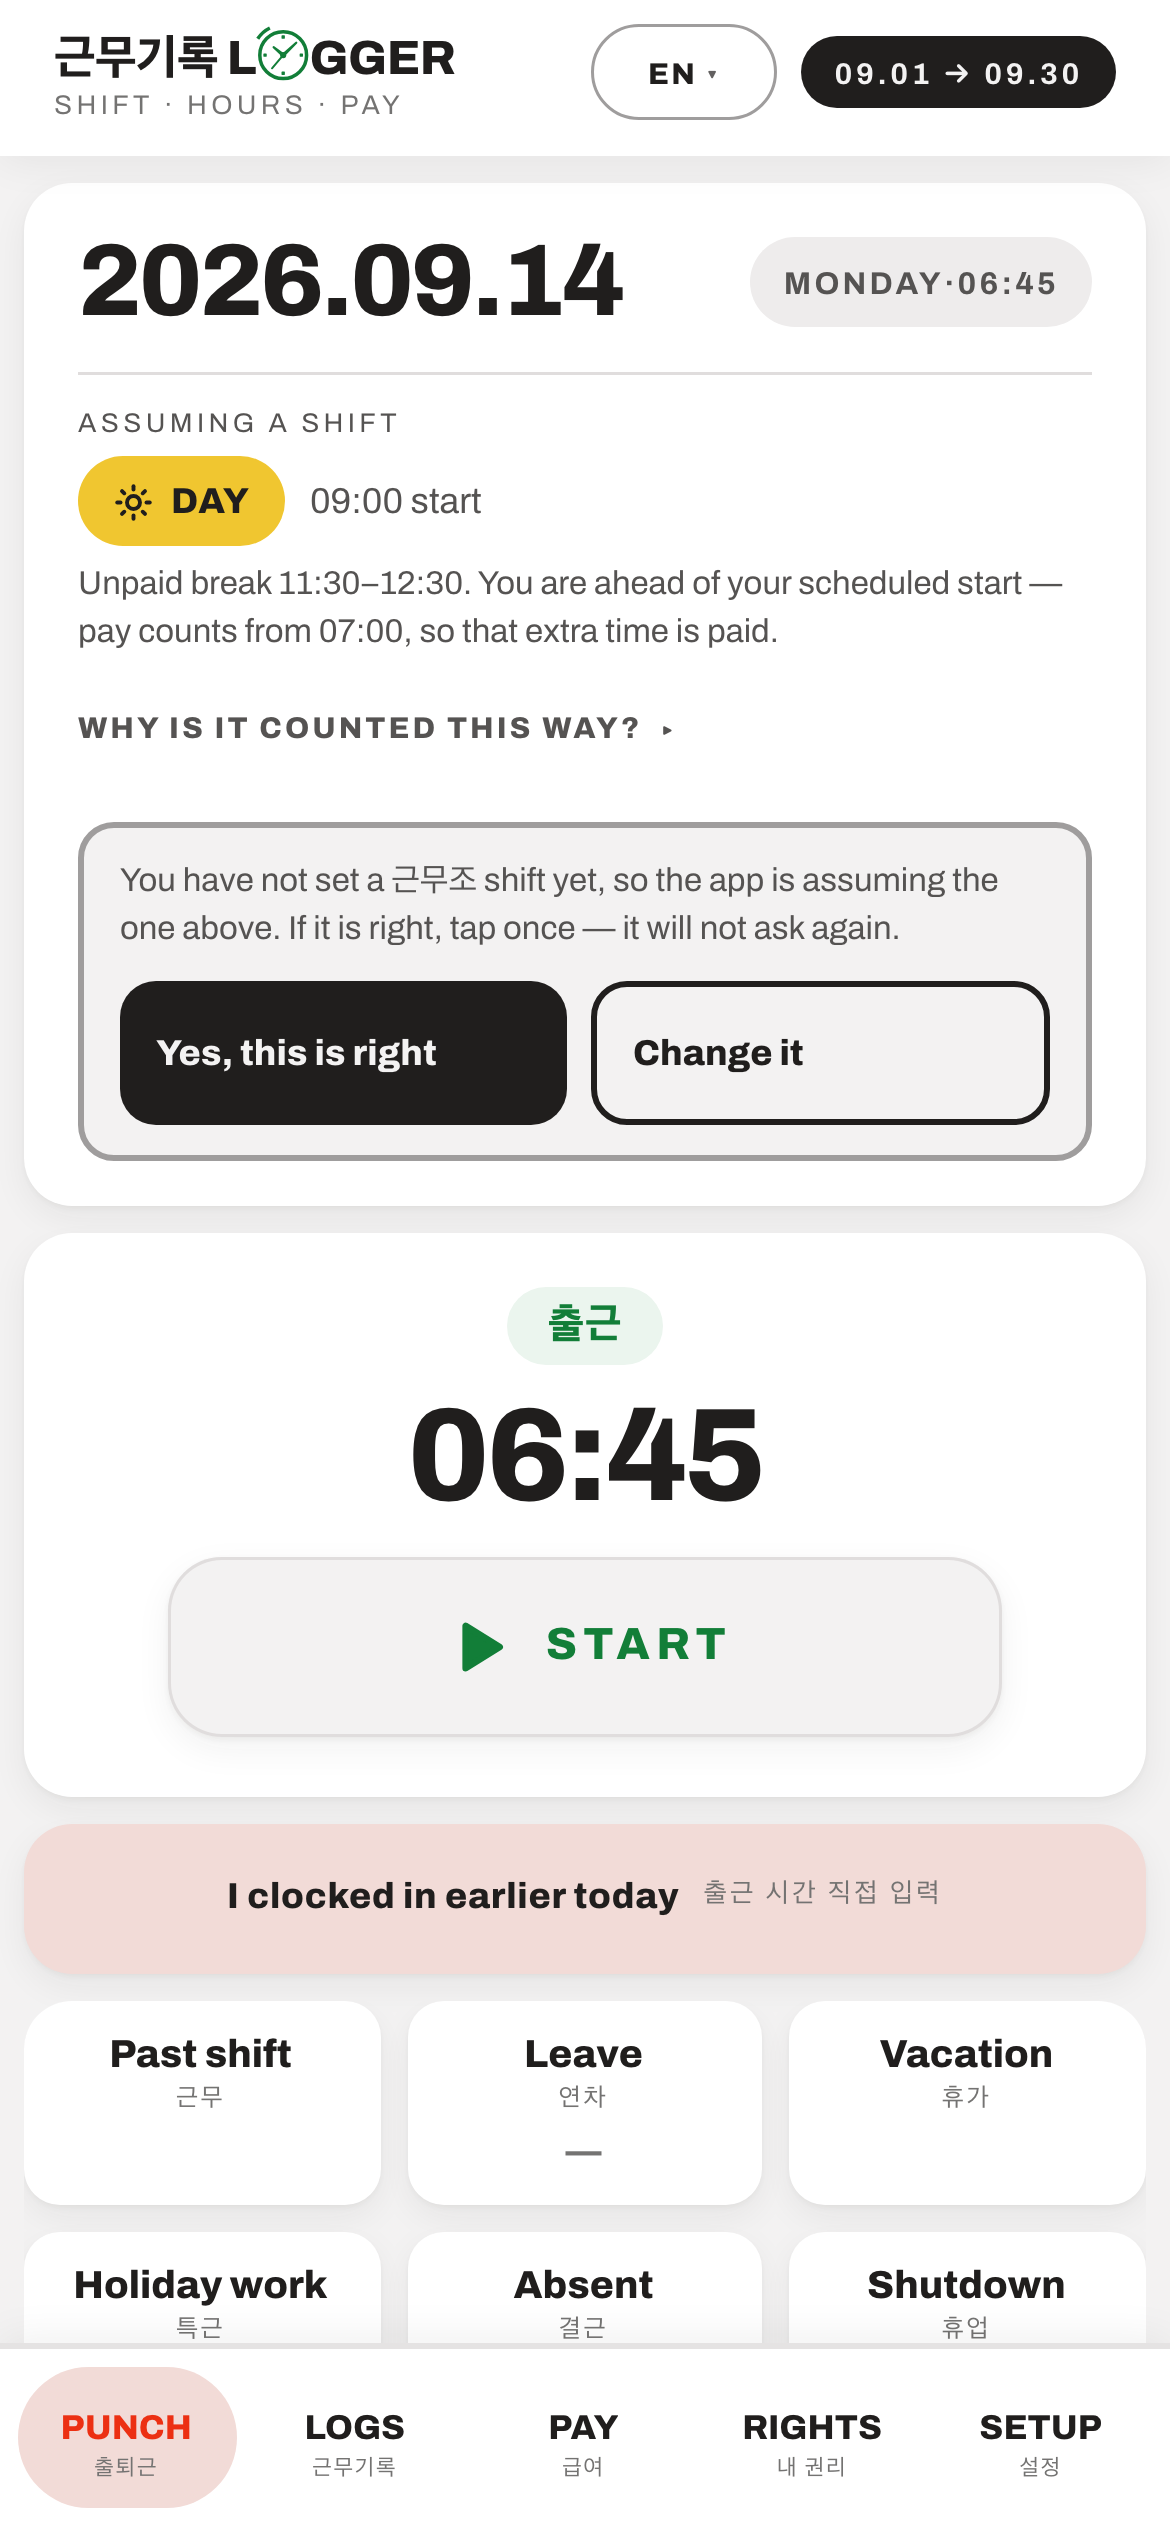
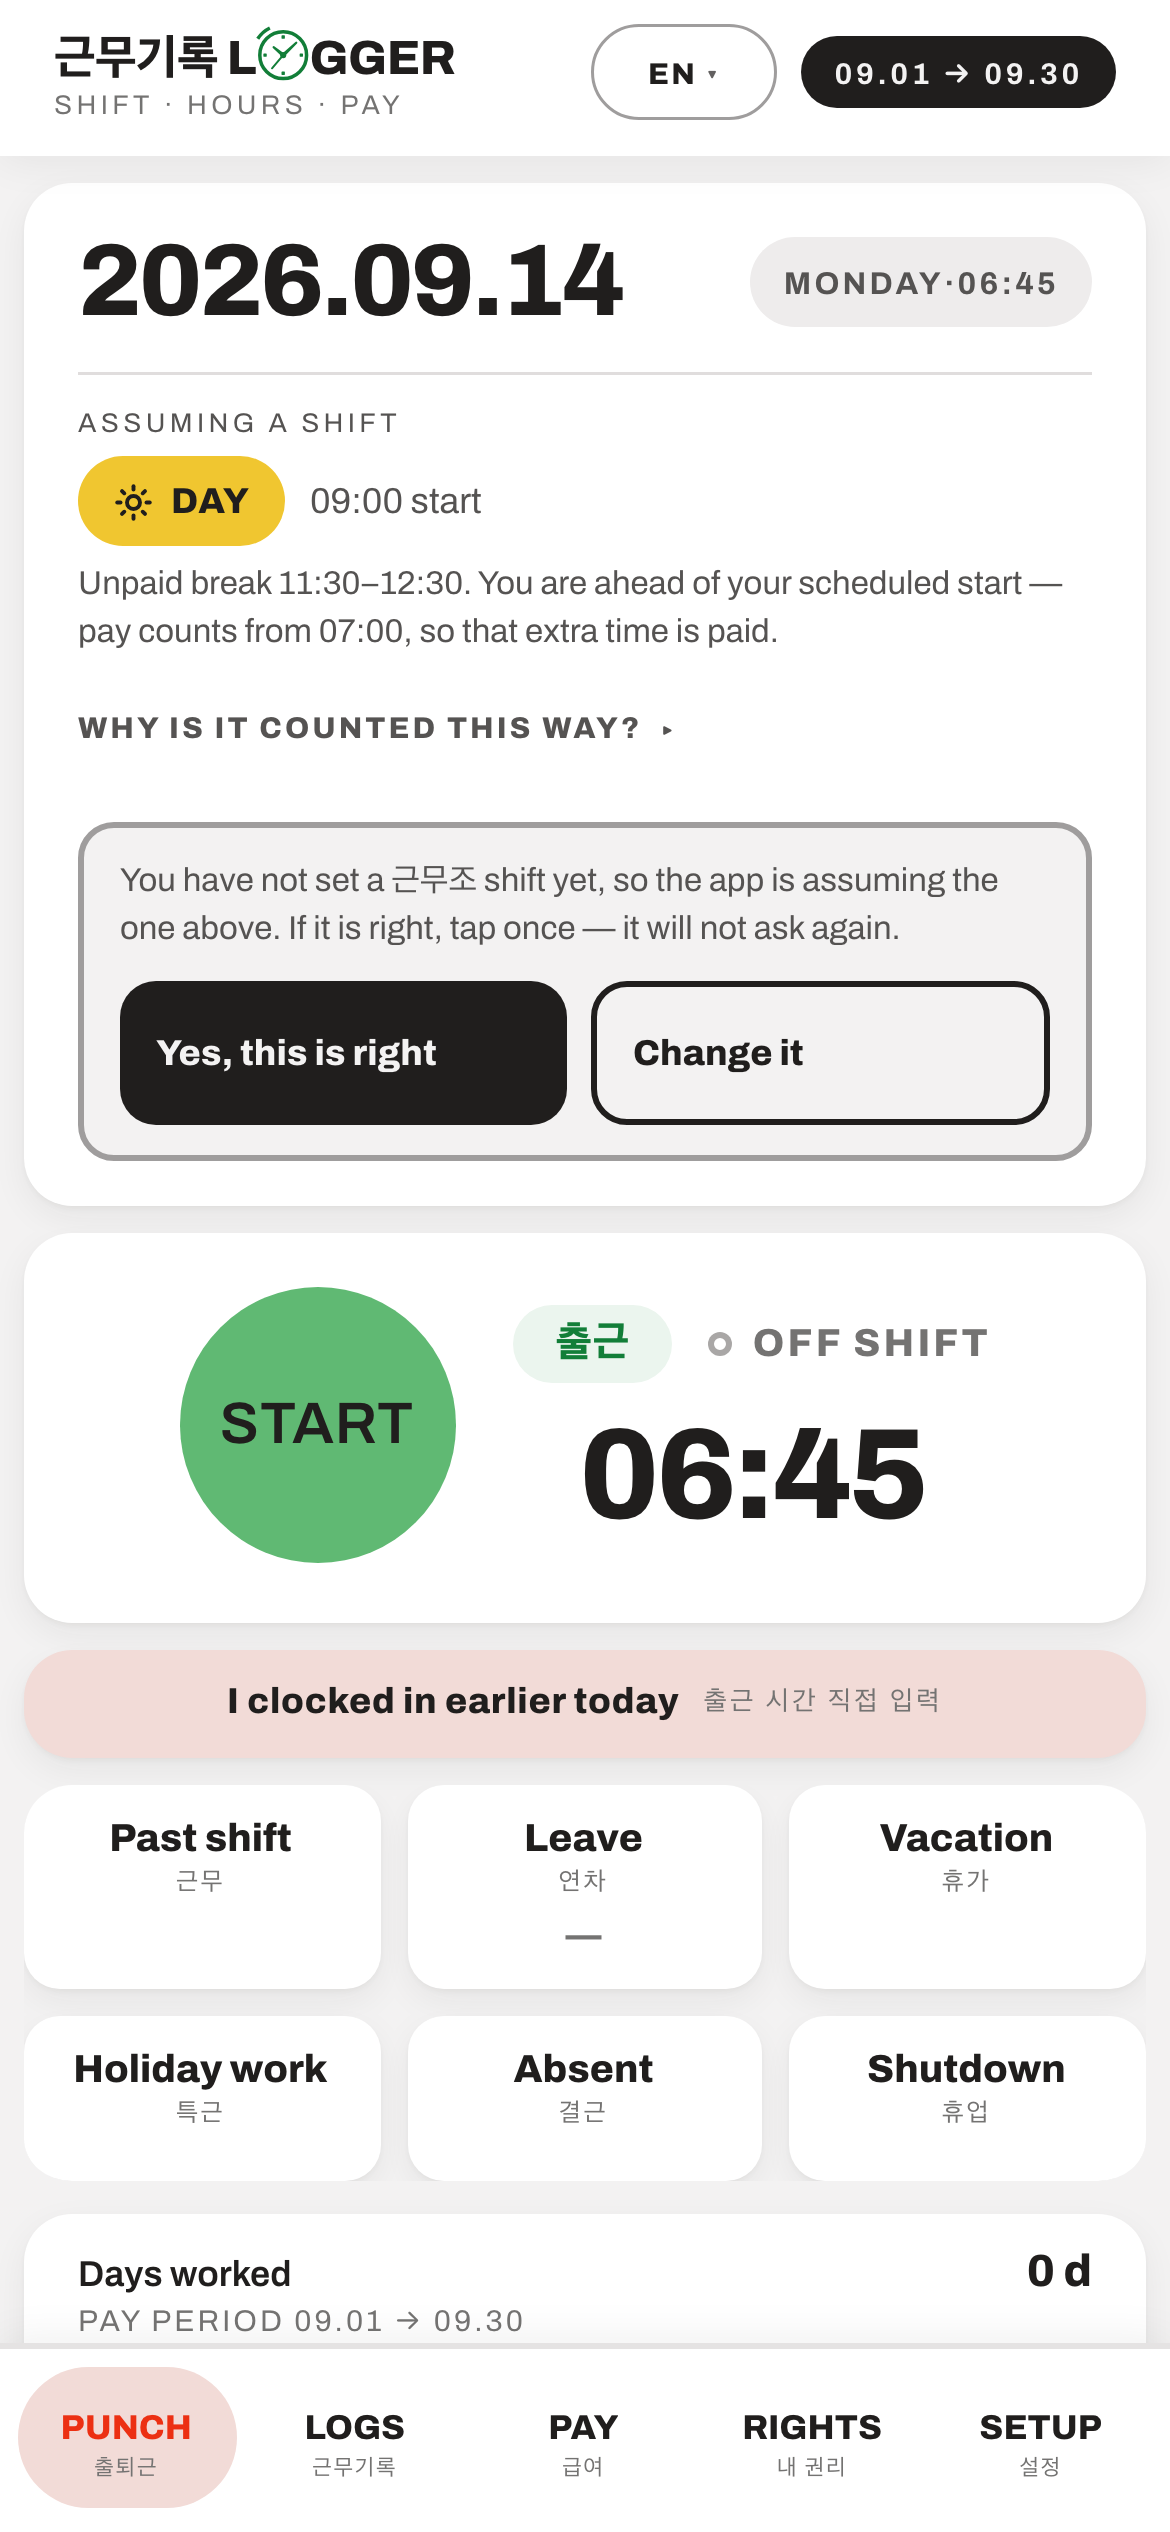
fix: retake LOGGER pictures and sample record for 1.5.0
1.5.0 redrew the punch card: a round START button beside the clock and an
OFF SHIFT ring. Re-shot with npm run retake -- logger; 07-punch alt follows.

diff --git a/tools/sample-output/record.html b/tools/sample-output/record.html
@@ -1,1 +1,1 @@
-<!doctype html><meta charset="utf-8"><title>근무내역서 09.01 → 09.30</title><style>body{font-family:-apple-system,system-ui,"Malgun Gothic",sans-serif;margin:24px;color:#111;font-size:13px}h1{font-size:19px;margin:0 0 2px}h2{font-size:13px;margin:22px 0 6px;letter-spacing:.04em}table{border-collapse:collapse;width:100%;margin-top:4px}th,td{border:1px solid #bbb;padding:4px 6px;text-align:left}th{background:#eee;font-weight:600}td.n,th.n{text-align:right;font-variant-numeric:tabular-nums}.k{color:#666;font-size:11px}.warn{border:2px solid #ec3013;padding:8px 10px;margin-top:8px}.self{border:2px solid #111;padding:9px 11px;margin-top:9px;font-size:11.5px;line-height:1.55}.who{font-size:13px;margin-top:5px;line-height:1.5}.who b{font-weight:700}.who.nm{color:#ec3013;font-size:11.5px}.who .nm{color:#ec3013;font-size:11px}ol.k{margin:5px 0 0;padding-left:17px}ol.k li{margin-bottom:3px}ul{margin:4px 0;padding-left:18px}@media print{body{margin:0}}</style><h1>근무내역서 · Work record</h1><div class="who">근로자 성명 <b>Jane Doe</b></div><div class="who">사업장 <b>(주) 가나다산업</b></div><div class="k">급여기간 09.01 → 09.30 · 지급일 10.10 · 작성 2026.09.14</div><div class="self"><b>이 문서는 근로자 본인이 작성한 기록입니다.</b> 회사나 공공기관이 발행한 증명서가 아닙니다. 출퇴근 시각은 근로자 본인이 휴대폰에 기록한 것이고, 아래 금액은 그 기록과 본인이 입력한 임금 조건으로 앱이 계산한 <b>참고용 추정치</b>입니다.</div><h2>계산 기준</h2><table><tr><th>기본금</th><td class="n">₩2,156,880</td><th>기준시간</th><td class="n">209시간</td></tr><tr><th>통상시급</th><td class="n">₩10,320</td><th>연장 ×1.5</th><td class="n">₩15,480</td></tr><tr><th>야간 ×0.5</th><td class="n">₩5,160</td><th>휴일 8시간 초과 ×2</th><td class="n">₩20,640</td></tr></table><h2>일별 기록</h2><table><tr><th>날짜</th><th>구분</th><th>인정 출퇴근</th><th class="n">실근무</th><th class="n">연장</th><th class="n">야간</th><th class="n">휴일</th><th class="n">변동수당</th><th>사유</th></tr><tr><td>09.08 (화)</td><td>주간</td><td>09:00 → 18:00</td><td class="n">8.0</td><td class="n">0.0</td><td class="n">0.0</td><td class="n">0.0</td><td class="n">₩0</td><td></td></tr><tr><td>09.09 (수)</td><td>주간</td><td>09:00 → 18:00</td><td class="n">8.0</td><td class="n">0.0</td><td class="n">0.0</td><td class="n">0.0</td><td class="n">₩0</td><td></td></tr><tr><td>09.10 (목)</td><td>주간</td><td>09:00 → 18:00</td><td class="n">8.0</td><td class="n">0.0</td><td class="n">0.0</td><td class="n">0.0</td><td class="n">₩0</td><td></td></tr><tr><td>09.11 (금)</td><td>주간</td><td>09:00 → 18:00</td><td class="n">8.0</td><td class="n">0.0</td><td class="n">0.0</td><td class="n">0.0</td><td class="n">₩0</td><td></td></tr></table><h2>합계</h2><table><tr><th>근무일수</th><td class="n">4일</td><th>실근무 (정상)</th><td class="n">32.0시간</td></tr><tr><th>연장근로</th><td class="n">0.0시간</td><td class="n">₩0</td><td></td></tr><tr><th>야간근로</th><td class="n">0.0시간</td><td class="n">₩0</td><td></td></tr><tr><th>휴일근로</th><td class="n">0.0시간</td><td class="n">₩0</td><td></td></tr><tr><th>지급총액</th><td class="n">₩2,156,880</td><th>공제 후 실수령(추정)</th><td class="n">₩1,939,990</td></tr></table><h2>안내</h2><ol class="k"><li>이 문서는 근로자 본인의 기록을 정리한 <b>참고자료</b>이며, 법률 자문이나 노무 상담이 아닙니다. 이 문서를 만든 앱과 그 제작자는 공인노무사·변호사가 아니며, 어떤 사건도 대리하거나 대행하지 않습니다.</li><li>임금의 지급 여부와 그 금액에 대한 판단은 <b>고용노동부와 공인노무사·변호사</b>의 몫입니다. 확정 금액은 회사가 발행한 급여명세서와 근로계약서를 따릅니다.</li><li>소득세와 4대보험은 추정치이므로 실제 공제액과 다를 수 있습니다. 앱이 아는 법령과 요율이 현재와 다를 수 있으므로, 이 문서의 금액은 반드시 별도로 확인하십시오.</li><li>상담은 <b>고용노동부 고객상담센터 ☎ 1350</b> (평일 09:00–18:00, 통역 지원) 또는 노동포털 labor.moel.go.kr, 가까운 외국인노동자지원센터에서 <b>무료로</b> 받을 수 있습니다.</li></ol><div class="k" style="margin-top:6px">작성 도구: 근무기록 LOGGER 1.4.1 — 오프라인 앱, 기록은 본인 휴대폰에만 저장됩니다.</div>
+<!doctype html><meta charset="utf-8"><title>근무내역서 09.01 → 09.30</title><style>body{font-family:-apple-system,system-ui,"Malgun Gothic",sans-serif;margin:24px;color:#111;font-size:13px}h1{font-size:19px;margin:0 0 2px}h2{font-size:13px;margin:22px 0 6px;letter-spacing:.04em}table{border-collapse:collapse;width:100%;margin-top:4px}th,td{border:1px solid #bbb;padding:4px 6px;text-align:left}th{background:#eee;font-weight:600}td.n,th.n{text-align:right;font-variant-numeric:tabular-nums}.k{color:#666;font-size:11px}.warn{border:2px solid #ec3013;padding:8px 10px;margin-top:8px}.self{border:2px solid #111;padding:9px 11px;margin-top:9px;font-size:11.5px;line-height:1.55}.who{font-size:13px;margin-top:5px;line-height:1.5}.who b{font-weight:700}.who.nm{color:#ec3013;font-size:11.5px}.who .nm{color:#ec3013;font-size:11px}ol.k{margin:5px 0 0;padding-left:17px}ol.k li{margin-bottom:3px}ul{margin:4px 0;padding-left:18px}@media print{body{margin:0}}</style><h1>근무내역서 · Work record</h1><div class="who">근로자 성명 <b>Jane Doe</b></div><div class="who">사업장 <b>(주) 가나다산업</b></div><div class="k">급여기간 09.01 → 09.30 · 지급일 10.10 · 작성 2026.09.14</div><div class="self"><b>이 문서는 근로자 본인이 작성한 기록입니다.</b> 회사나 공공기관이 발행한 증명서가 아닙니다. 출퇴근 시각은 근로자 본인이 휴대폰에 기록한 것이고, 아래 금액은 그 기록과 본인이 입력한 임금 조건으로 앱이 계산한 <b>참고용 추정치</b>입니다.</div><h2>계산 기준</h2><table><tr><th>기본금</th><td class="n">₩2,156,880</td><th>기준시간</th><td class="n">209시간</td></tr><tr><th>통상시급</th><td class="n">₩10,320</td><th>연장 ×1.5</th><td class="n">₩15,480</td></tr><tr><th>야간 ×0.5</th><td class="n">₩5,160</td><th>휴일 8시간 초과 ×2</th><td class="n">₩20,640</td></tr></table><h2>일별 기록</h2><table><tr><th>날짜</th><th>구분</th><th>인정 출퇴근</th><th class="n">실근무</th><th class="n">연장</th><th class="n">야간</th><th class="n">휴일</th><th class="n">변동수당</th><th>사유</th></tr><tr><td>09.08 (화)</td><td>주간</td><td>09:00 → 18:00</td><td class="n">8.0</td><td class="n">0.0</td><td class="n">0.0</td><td class="n">0.0</td><td class="n">₩0</td><td></td></tr><tr><td>09.09 (수)</td><td>주간</td><td>09:00 → 18:00</td><td class="n">8.0</td><td class="n">0.0</td><td class="n">0.0</td><td class="n">0.0</td><td class="n">₩0</td><td></td></tr><tr><td>09.10 (목)</td><td>주간</td><td>09:00 → 18:00</td><td class="n">8.0</td><td class="n">0.0</td><td class="n">0.0</td><td class="n">0.0</td><td class="n">₩0</td><td></td></tr><tr><td>09.11 (금)</td><td>주간</td><td>09:00 → 18:00</td><td class="n">8.0</td><td class="n">0.0</td><td class="n">0.0</td><td class="n">0.0</td><td class="n">₩0</td><td></td></tr></table><h2>합계</h2><table><tr><th>근무일수</th><td class="n">4일</td><th>실근무 (정상)</th><td class="n">32.0시간</td></tr><tr><th>연장근로</th><td class="n">0.0시간</td><td class="n">₩0</td><td></td></tr><tr><th>야간근로</th><td class="n">0.0시간</td><td class="n">₩0</td><td></td></tr><tr><th>휴일근로</th><td class="n">0.0시간</td><td class="n">₩0</td><td></td></tr><tr><th>지급총액</th><td class="n">₩2,156,880</td><th>공제 후 실수령(추정)</th><td class="n">₩1,939,990</td></tr></table><h2>안내</h2><ol class="k"><li>이 문서는 근로자 본인의 기록을 정리한 <b>참고자료</b>이며, 법률 자문이나 노무 상담이 아닙니다. 이 문서를 만든 앱과 그 제작자는 공인노무사·변호사가 아니며, 어떤 사건도 대리하거나 대행하지 않습니다.</li><li>임금의 지급 여부와 그 금액에 대한 판단은 <b>고용노동부와 공인노무사·변호사</b>의 몫입니다. 확정 금액은 회사가 발행한 급여명세서와 근로계약서를 따릅니다.</li><li>소득세와 4대보험은 추정치이므로 실제 공제액과 다를 수 있습니다. 앱이 아는 법령과 요율이 현재와 다를 수 있으므로, 이 문서의 금액은 반드시 별도로 확인하십시오.</li><li>상담은 <b>고용노동부 고객상담센터 ☎ 1350</b> (평일 09:00–18:00, 통역 지원) 또는 노동포털 labor.moel.go.kr, 가까운 외국인노동자지원센터에서 <b>무료로</b> 받을 수 있습니다.</li></ol><div class="k" style="margin-top:6px">작성 도구: 근무기록 LOGGER 1.5.0 — 오프라인 앱, 기록은 본인 휴대폰에만 저장됩니다.</div>

diff --git a/CHANGELOG.md b/CHANGELOG.md
@@ -11,7 +11,7 @@ All notable changes to this site are recorded here. The format follows
   stayed on 1.3.0 under an expired New pill from 2026-10-26. The sync now carries the icon.
 - The LOGGER page and guide no longer say the punch pad uses a fingerprint. LOGGER dropped it
   on 2026-10-26; you now tap 출근 START and 퇴근 STOP, and the guide says so.
-- The LOGGER guide pictures show 1.4.1 again. The capture scripts had been tapping a button
+- The LOGGER guide pictures show the app as it is (1.5.0). The capture scripts had been tapping a button
   hidden under the new welcome screen; they now only tap what is on top, and `npm run retake
   -- logger` works.
 - `npm run retake` now says to run `npx playwright install chromium` when a Playwright update

diff --git a/guides/logger.md b/guides/logger.md
@@ -49,7 +49,7 @@ steps:
     body: Three things set, and the app is ready. From here it records shifts and works out what you are owed.
 after:
   - image: 07-punch
-    alt: The daily punch screen, showing the date, an assumed day shift, and a wide START button under the clock.
+    alt: The daily punch screen, showing the date, an assumed day shift, and a round START button beside the clock, marked OFF SHIFT.
     kicker: Every day
     title: One tap when you arrive, one when you leave
     body: Tap 출근 START when you arrive and 퇴근 STOP when you leave. The app decides on its own whether it was a day or a night shift and takes your breaks off. Nothing to fill in.
